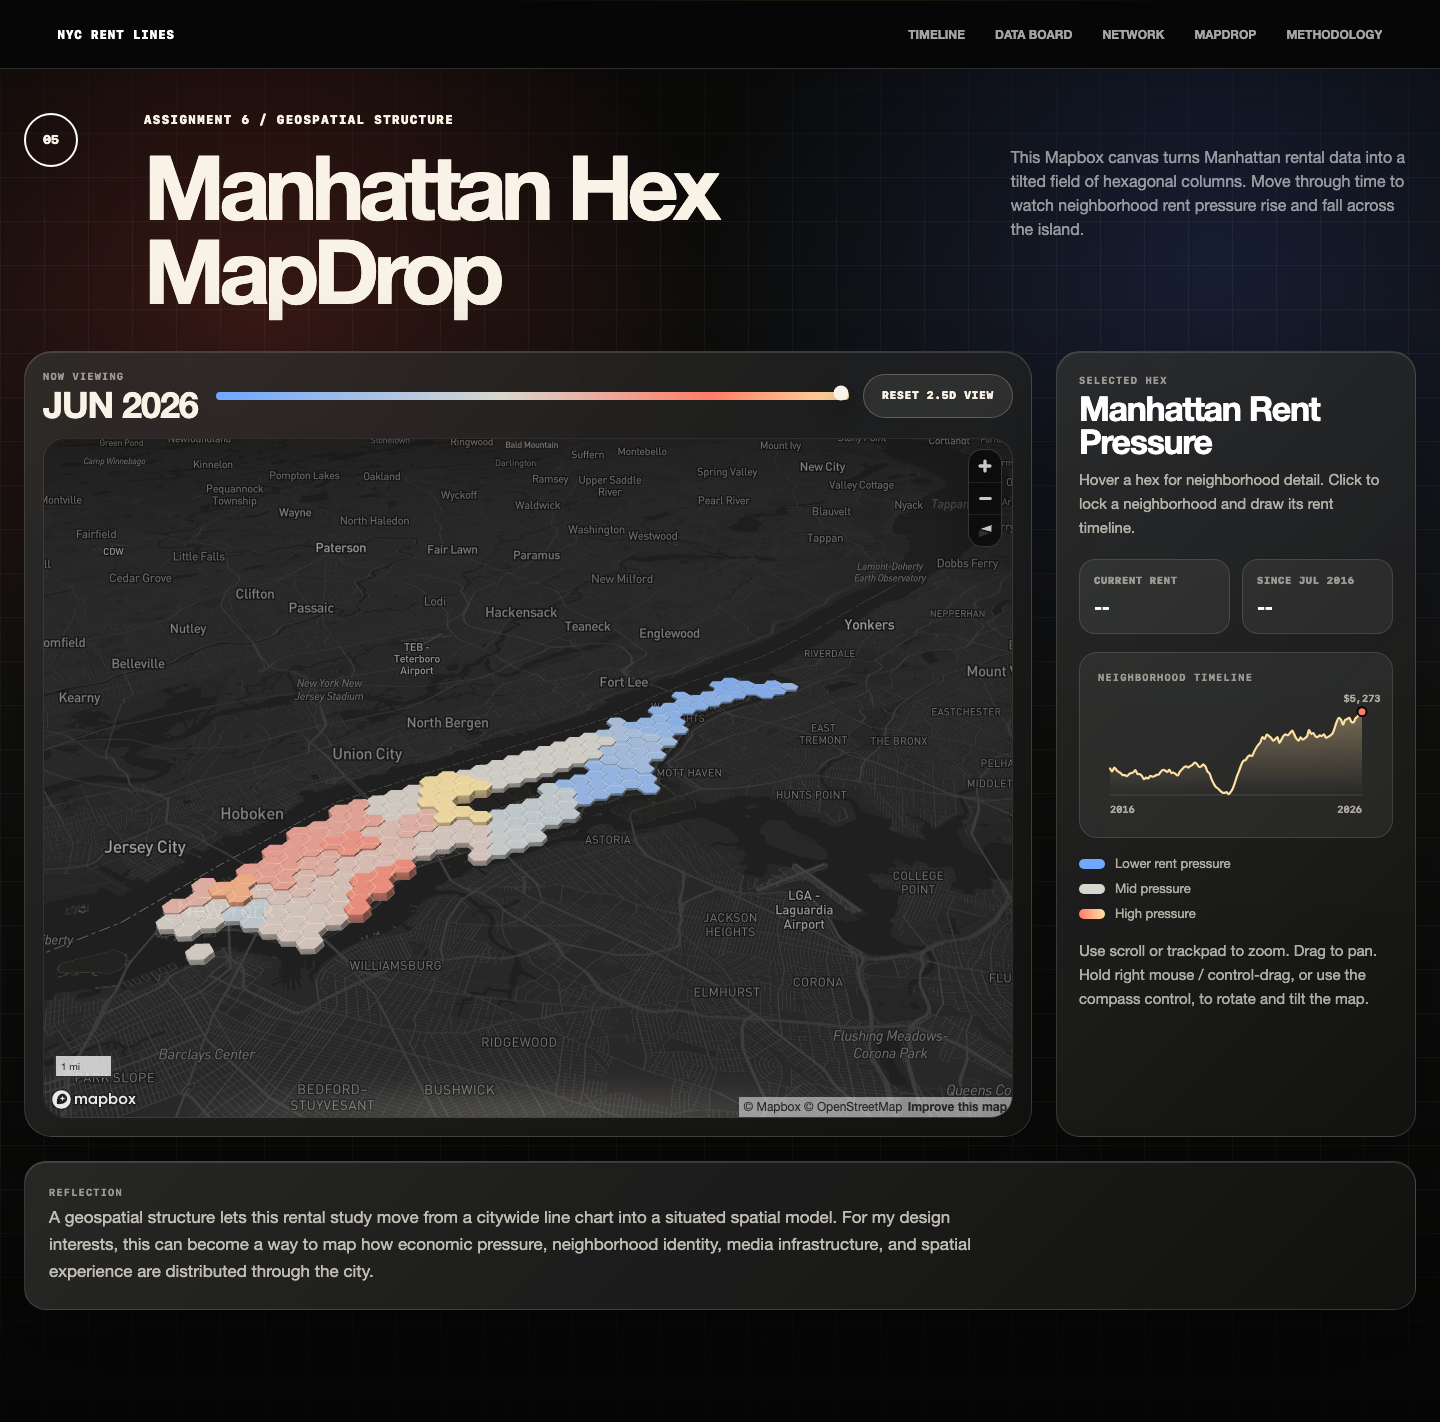
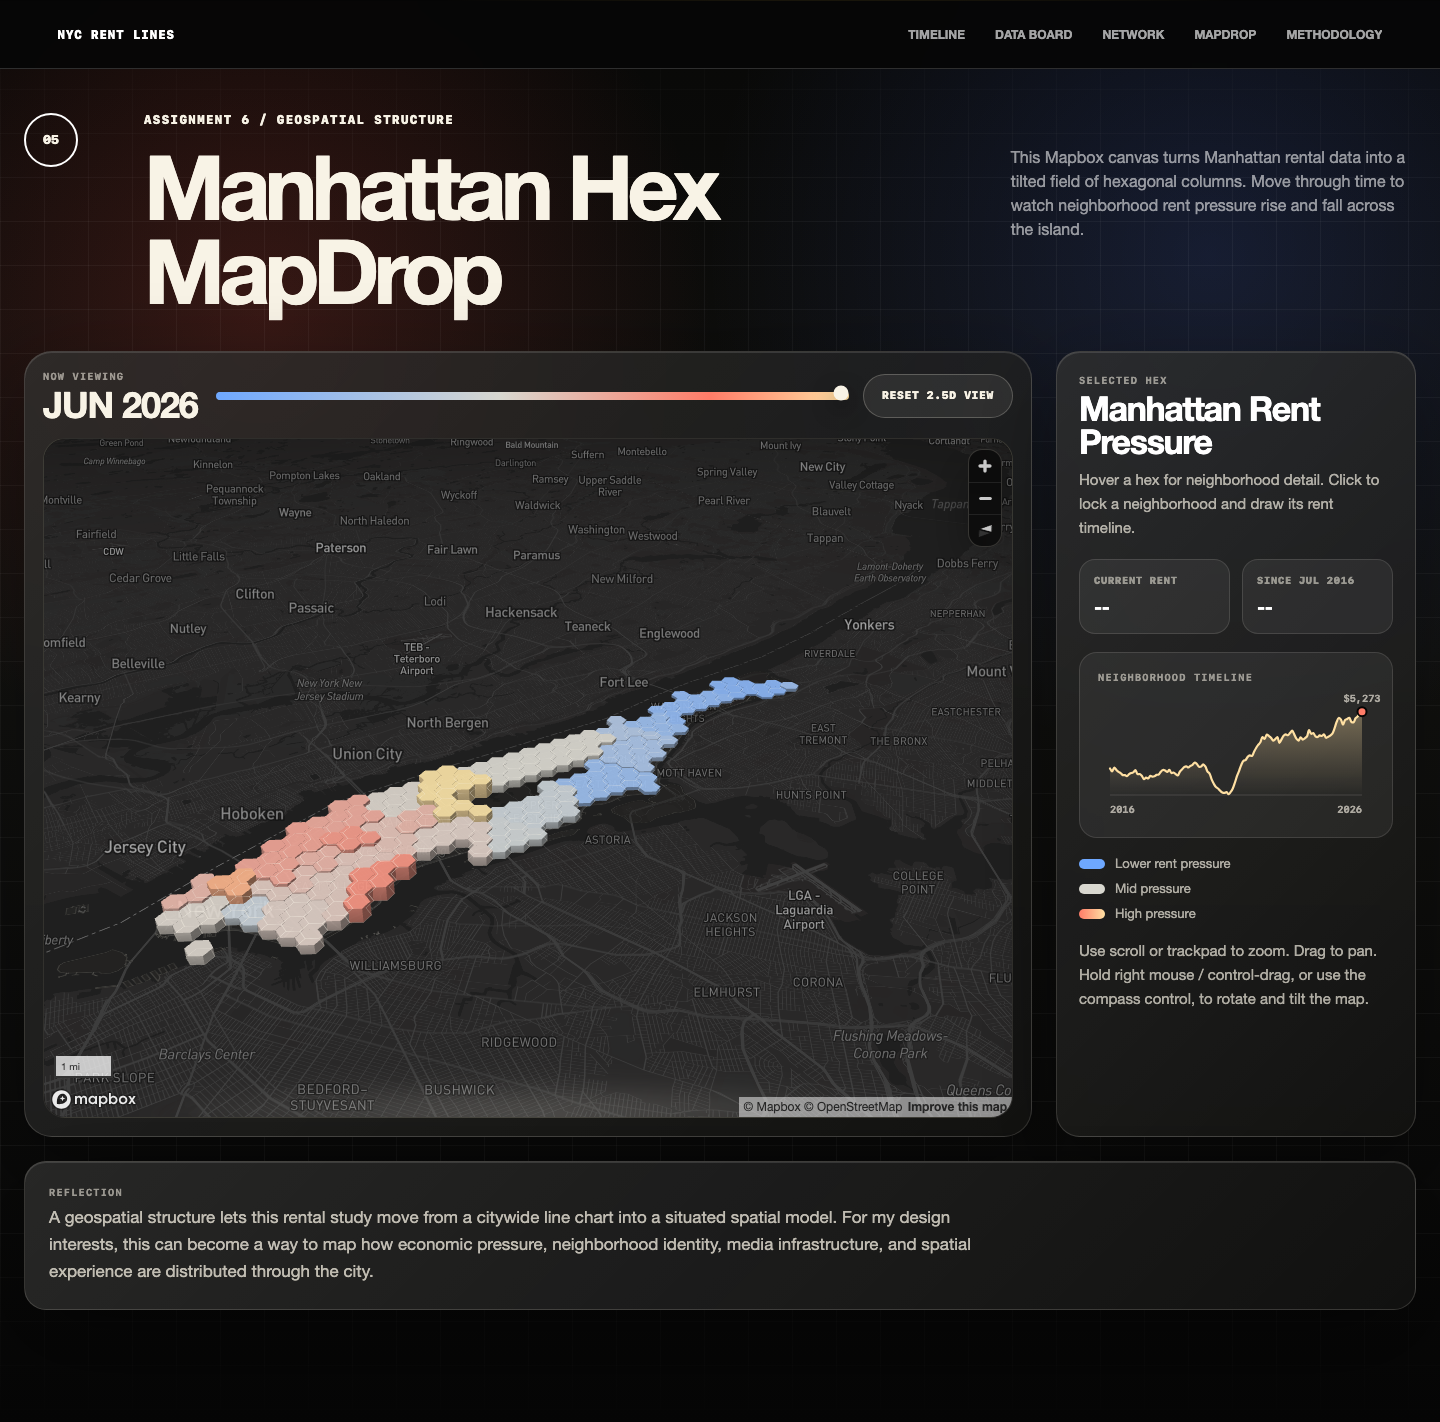
Increase Assignment 6 extrusion contrast

Changed region(s): [[0.0938, 0.4951, 0.4688, 0.6807]]

diff --git a/assignment6-map.js b/assignment6-map.js
@@ -20,7 +20,7 @@
   const formatMonth = d3.timeFormat("%b %Y");
   const formatCurrency = d3.format("$,.0f");
   const formatPct = d3.format("+.1f");
-  const assetVersion = "20260723-hexgrid-2";
+  const assetVersion = "20260723-height-3";
   const initialCamera = {
     center: [-73.968, 40.788],
     zoom: 11.08,
@@ -214,8 +214,8 @@
         "fill-extrusion-height": [
           "+",
           ["get", "currentHeight"],
-          ["case", ["boolean", ["feature-state", "hover"], false], 28, 0],
-          ["case", ["boolean", ["feature-state", "selected"], false], 18, 0]
+          ["case", ["boolean", ["feature-state", "hover"], false], 36, 0],
+          ["case", ["boolean", ["feature-state", "selected"], false], 24, 0]
         ],
         "fill-extrusion-color": [
           "case",

diff --git a/assignment4.html b/assignment4.html
@@ -10,7 +10,7 @@
   <link href="https://api.mapbox.com/mapbox-gl-js/v3.26.0/mapbox-gl.css" rel="stylesheet">
   <link rel="stylesheet" href="assignment4.css?v=20260719-relational-1">
   <link rel="stylesheet" href="assignment5.css?v=20260719-relational-4">
-  <link rel="stylesheet" href="assignment6.css?v=20260723-hexgrid-2">
+  <link rel="stylesheet" href="assignment6.css?v=20260723-height-3">
   <script src="https://cdn.jsdelivr.net/npm/d3@7"></script>
   <script src="https://api.mapbox.com/mapbox-gl-js/v3.26.0/mapbox-gl.js"></script>
 </head>
@@ -493,7 +493,7 @@
   <script src="mapbox-config.js?v=20260722-geospatial-1"></script>
   <script src="assignment4.js?v=20260713-rent-only-2"></script>
   <script src="assignment5-network.js?v=20260719-relational-4"></script>
-  <script src="assignment6-map.js?v=20260723-hexgrid-2"></script>
+  <script src="assignment6-map.js?v=20260723-height-3"></script>
 </body>
 
 </html>

diff --git a/assignment6-geospatial-notes.md b/assignment6-geospatial-notes.md
@@ -20,6 +20,8 @@ The visual direction is a dark, polished MapDrop interface: a tilted map object 
 
 Each hex stores a Manhattan cell location and inherits the rent series from the nearest StreetEasy neighborhood centroid. The time slider updates the current month, median asking rent, column height, and color. The hex map is a stylized geospatial model, not an official neighborhood boundary map.
 
+Column height is mapped from median asking rent into an 18-420 meter extrusion range. This keeps the terrain legible while making high-rent and lower-rent areas visibly distinct.
+
 ## Interaction
 
 - The map opens in a 2.5D camera angle with pitch and bearing.